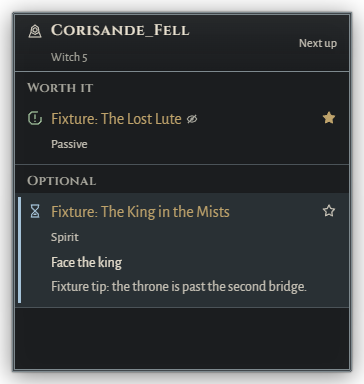
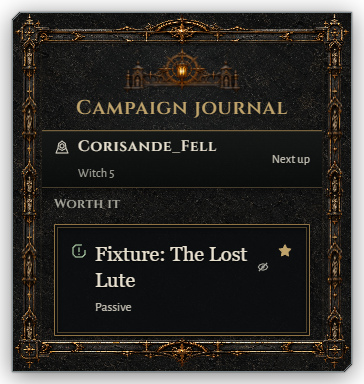
fix(quest-tracker): preserve selected theme across modes

diff --git a/apps/quest-tracker/src/approved-ui.test.ts b/apps/quest-tracker/src/approved-ui.test.ts
@@ -7,23 +7,48 @@ let rendered: Rendered | null = null;
 afterEach(() => { rendered?.destroy(); rendered = null; });
 
 describe('approved material adoption', () => {
-  it('keeps every play frame compact and chooses rich edit surfaces from the existing frame', async () => {
-    for (const mode of ['play', 'edit'] as const) for (const frame of FRAMES) {
+  it('keeps the selected material across every mode and expanded frame', async () => {
+    for (const theme of ['exile', 'claude'] as const) for (const mode of ['play', 'edit'] as const) for (const frame of FRAMES) {
       const view = fixtureView(frame, mode);
-      rendered = await renderApp(fakeBridge(view));
+      view.settings.theme = theme;
+      const bridge = fakeBridge(view);
+      rendered = await renderApp(bridge);
       if (frame === 'collapsed') {
         expect(rendered.root.querySelector('.panel')).toBeNull();
       } else {
         expect(rendered.root.querySelector('.panel')?.getAttribute('data-material')).toBe(
-          mode === 'edit' && frame !== 'panel-next-up' ? 'journal' : 'compact',
+          theme === 'exile' ? 'journal' : 'claude',
         );
+        expect(Boolean(rendered.root.querySelector('.material-art'))).toBe(theme === 'exile');
       }
+      expect(document.documentElement.dataset.theme).toBe(theme);
+      expect(bridge.calls).toEqual([]);
       if (mode === 'play') expect(rendered.root.querySelectorAll(CONTROL_SELECTOR)).toHaveLength(0);
       rendered.destroy(); rendered = null;
     }
   });
 
-  it('keeps text and commands across a compact/rich edit switch without making ornament interactive', async () => {
+  it('changes mode controls without changing the selected theme or requesting a theme patch', async () => {
+    for (const theme of ['exile', 'claude'] as const) {
+      const view = fixtureView('settings', 'edit');
+      view.settings.theme = theme;
+      const bridge = fakeBridge(view);
+      rendered = await renderApp(bridge);
+      (rendered.root.querySelector('.back-to-play') as HTMLButtonElement).click();
+      expect(bridge.calls).toEqual([{ name: 'set_mode', args: { mode: 'play' } }]);
+      bridge.pushView({ ...view, mode: 'play', frame: 'panel-next-up' });
+      expect(document.documentElement.dataset.theme).toBe(theme);
+      expect(rendered.root.querySelector('.panel')?.getAttribute('data-material')).toBe(theme === 'exile' ? 'journal' : 'claude');
+      expect(Boolean(rendered.root.querySelector('.material-art'))).toBe(theme === 'exile');
+      expect(rendered.root.querySelectorAll(CONTROL_SELECTOR)).toHaveLength(0);
+      bridge.pushView(view);
+      expect((rendered.root.querySelector('.theme-choice select') as HTMLSelectElement).value).toBe(theme);
+      expect(bridge.calls.some((call) => call.name === 'update_settings')).toBe(false);
+      rendered.destroy(); rendered = null;
+    }
+  });
+
+  it('keeps text and commands across frame changes without making ornament interactive', async () => {
     const view = fixtureView('panel-campaign', 'edit');
     const long = 'The long invented campaign name '.repeat(8);
     view.character!.name = long;

diff --git a/apps/quest-tracker/src/approved.css b/apps/quest-tracker/src/approved.css
@@ -2,7 +2,7 @@
 :root[data-theme='exile'] .panel-shadow[data-material='journal'] { --frame-inset: var(--material-journal-surround); }
 :root[data-theme='exile'] .panel-content { display: flex; flex: 1; flex-direction: column; min-width: 0; min-height: 0; overflow: hidden; }
 :root[data-theme='exile'] .frame-drag-region { position: absolute; z-index: 2; top: 9px; right: 34px; left: 34px; height: 20px; cursor: move; }
-:root[data-theme='exile'] .journal-plaque { cursor: move; }
+:root[data-theme='exile'] .overlay[data-mode='edit'] .journal-plaque { cursor: move; }
 :root[data-theme='exile'] [data-theme='exile'] .panel[data-material='compact'] {
   --cut: var(--material-compact-chamfer);
   padding: var(--material-compact-trim);
@@ -130,7 +130,7 @@
 :root[data-theme='exile'] .window[data-theme='exile'] .check { padding: 12px; border: 1px solid var(--color-material-stone); box-shadow: inset 0 2px 8px #0006; }
 @media (max-height: 440px) {
   :root[data-theme='exile'] [data-theme='exile'] .journal-plaque { font-size: 20px; line-height: 28px; }
-  :root[data-theme='exile'] .journal-crest { height: 72px; }
+  :root[data-theme='exile'] .journal-crest { height: 48px; }
 }
 @media (max-height: 320px), (max-width: 300px) {
   :root[data-theme='exile'] [data-theme='exile'] .journal-plaque { display: none; }

diff --git a/apps/quest-tracker/src/components/Panel.svelte b/apps/quest-tracker/src/components/Panel.svelte
@@ -38,7 +38,8 @@
   }: { view: View; send: Send; drag?: () => void; resize?: (direction: ResizeDirection) => void } = $props();
 
   const edit = $derived(view.mode === 'edit');
-  const journal = $derived(view.settings.theme !== 'claude' && edit && view.frame !== 'panel-next-up');
+  // Modes change input and controls; only the saved theme chooses the material.
+  const journal = $derived(view.settings.theme !== 'claude');
   const plaque = $derived(view.frame === 'settings' ? 'Overlay settings' : view.frame === 'character-picker' ? 'Characters' : view.frame === 'quest-detail' ? 'Quest details' : 'Campaign journal');
   let panelElement = $state<HTMLDivElement>();
   let wholeScroll = $state(false);

diff --git a/docs/ui-design-system.md b/docs/ui-design-system.md
@@ -1,9 +1,9 @@
-# ExilePact2 — Proposed UI Design System
+# ExilePact2 — Approved UI Design System
 
 **Status: approved visual direction; Quest Tracker UI adoption, 2026-10-31.**
 Quest Tracker is the primary example in a shared family with Waystone Roller
-and Crafting Helper. Rich journal/detail/settings views use a carved campaign
-folio; the gameplay overlay uses restrained weathered steel and dark masonry.
+and Crafting Helper. Quest Tracker uses its selected theme consistently across
+play, edit, Next up, All and Settings; Exile uses the carved stone/gold folio.
 Quest Tracker implements this direction as its default **Exile** theme, with
 the original **Claude** theme selectable in both Settings surfaces. This is not
 a product rename. Waystone/Crafting retain their existing appearance.
@@ -38,17 +38,17 @@ Evidence: ten owner-supplied screenshots received 2026-10-31, identified below b
 | 120029 quest HUD | Right-edge placement, grouped headings, subordinate objectives, short rules, indentation and collapse indicator | Compact contextual task display. Use left-aligned text inside a movable right-positioned panel; one indentation level; explicit status and next action. Do not require reading right-aligned multiline text. |
 | 120759 world map | Engraved cartographic terrain, prominent compass rose, sculpted circular markers, title plaque, act selector and selective luminous emphasis | Use original cartographic/engraved motifs in chapter dividers and subdued marginal artwork; use embossed seals for actual state distinctions. Keep route ordering keyboard-readable and do not invent a world-map capability. |
 
-The references' character comes from material depth, architectural framing, original-looking sculpture, illustrated niches and ceremonial type, not their palette alone. Modernization means clear task hierarchy, restrained motion, sufficient contrast and usable targets inside that visual world. It does not mean erasing the material/ornamental language. Reduce density in the combat overlay while retaining a recognizable carved edge and seal; let journal and ordinary windows carry fuller craft detail.
+The references' character comes from material depth, architectural framing, original-looking sculpture, illustrated niches and ceremonial type, not their palette alone. Modernization means clear task hierarchy, restrained motion, sufficient contrast and usable targets inside that visual world. Keep that material identity across modes; responsive sizing reduces ornament before text without substituting another theme.
 
 ## Design rationale
 
-Approved family: carved campaign folio with a restrained gameplay instrument. This is an original design family, not an approved product rename. Rich journal/detail/settings views use weathered charcoal masonry, cool dull-steel hardware, worn muted-gold inlay, original gothic relief and a ceremonial Roman serif title plate over deeply recessed content. The gameplay variant reduces that construction to a thin weathered steel/dark masonry frame, engraved small-cap header, bone copy, muted-gold quest headings/status shapes and simple etched dividers. No giant crest, statues, lanterns or portraits surround play mode.
+Approved family: carved campaign folio. This is an original design family, not an approved product rename. Every expanded Exile panel uses weathered charcoal masonry, cool dull-steel hardware, worn muted-gold inlay, original gothic relief and a ceremonial Roman serif title plate over deeply recessed content. Play/edit changes input and controls only; Next up, All, detail, Settings and empty states retain the selected material and typography. Claude keeps the prior visual theme, and the collapsed badge keeps its small shape and selected palette.
 
 Material relief, shaped geometry, typography and original art distinguish this from the rejected flat-card recolor. Highlights are narrow and restrained, without glossy bronze, broad specular rims or glowing every edge. Rich views can carry original crest/title hardware, arches, marginal engraving and illustration niches; text wells stay quiet. Task hierarchy remains title → next action → rationale/reward → metadata. No new lore/portrait mapping, health meter, map capability or automatic game action is introduced. All numerical values below are proposed production design metrics, chosen for the accepted direction; none are measured pixel values or sampled colors from AI artwork.
 
 ### Material and ornament system
 
-Define two explicit variants rather than scaling the rich concept down. Gameplay: 2px outer dark-masonry rail plus 1px cool-steel inner rule (3px total), 2px chamfered corners, 1px etched row dividers, shallow 0 1px 0 inset highlight at 18% maximum opacity and 0 2px 6px black contact shadow at 35%. No broad luminous rims, external sculpture or art wells. Texture stays in frame/header; body reading field is uniform. Proposed 0.9 backing follows the actual setting default; 0% remains supported by contract, without promising contrast against every game scene.
+Quest Tracker chooses its expanded-panel material from the saved theme, independently of mode or view. Exile retains its sculpted stone/gold frame, lantern relief and quiet textured wells in play and edit. At short viewports, reduce the crown and padding before content using the same responsive rules in both modes. Ornament stays inside existing native bounds. The 0.9 backing follows the actual setting default; 0% remains supported by contract, without promising contrast against every game scene.
 
 Journal/detail/ordinary windows: 12px carved masonry surround, 3px steel inner rail, 1px muted-gold inlay and 16px reading-well inset. Short title plate 48px high; optional original relief cap up to 56px within the window bounds. Illustration niche 76×112px only at effective widths ≥480px and only where existing data fits; at narrower widths reduce to a 24px decorative seal or omit art. Recessed cards use 8px corners/4px bevel face, 16px padding, a 28px title rail and 1px etched dividers. Contact shadows remain local (0 2px 8px black at 40%); no sprawling glow. Rich art may never increase the native window beyond its current contract or obscure controls.
 
@@ -60,9 +60,10 @@ Material states: hover lightens a control well by one palette step and steel edg
 
 **Provenance:** original AI review concept, generated 2026-10-31, with no game
 pixels or extracted assets; documentation art, **not a shipped runtime asset**.
-The rich journal/settings material direction remains approved. The image's heavy
-gameplay-overlay half is **superseded** by the separately approved lean
-steel/masonry overlay below. Its fictional **Track Quest** button is **not an existing command**.
+The rich material direction remains approved and is used by Exile in both play
+and edit. The earlier lean steel/masonry play substitution is historical; the
+selected theme keeps its rich frame and crest, with responsive ornament sizing.
+Its fictional **Track Quest** button is **not an existing command**.
 The image's Act I / Act II / Act III tabs are illustrative and do not authorize
 chapter navigation; retain the current act heading and existing act expand/collapse.
 Text, fictional quest examples and geometry are illustrative, not measured
@@ -74,16 +75,16 @@ carved charcoal masonry, aged metal inlay/title hardware, gothic relief,
 lantern/astrolabe crest and inset task/reward wells, legible bone text;
 no copied game artwork. This is not a set of reusable sliced runtime assets.
 
-| Original asset | Purpose | Compact / full variant | Provenance and status |
+| Original asset | Purpose | Responsive / proposed variants | Provenance and status |
 |---|---|---|---|
-| Crest / relief cap | Family silhouette and ceremonial heading | Omitted in play / original lantern-astrolabe cap within full frame | Original generated raster crown bundled in Quest Tracker Exile; sibling adoption remains proposed |
-| Masonry / steel frame corners | Structural depth and wear | Thin 3px trim / carved surround and inner rail | Original generated raster surround bundled in Quest Tracker Exile; sibling adoption remains proposed |
+| Crest / relief cap | Family silhouette and ceremonial heading | Same rich frame/crown in play and edit; crown contracts at short viewports | Original generated raster crown bundled in Quest Tracker Exile; sibling adoption remains proposed |
+| Masonry / steel frame corners | Structural depth and wear | Same carved surround and inner rail in both modes; responsive padding | Original generated raster surround bundled in Quest Tracker Exile; sibling adoption remains proposed |
 | Engraved title plate | Display hierarchy | Shallow header / rich title plate | Quest Tracker Exile uses the bundled crown and CSS title plate; sibling adoption remains proposed |
 | Three vignette / emblem studies | Optional chapter identity | Omitted in play, optional 24px narrow-journal seal / aqueduct, lantern-marsh and bell niches | Fictional original AI illustrations, not game/lore data; individual runtime artwork proposed, not produced |
 | Etched divider | Quiet grouping | 1px line / original marginal engraving | Quest Tracker Exile uses CSS dividers; additional illustrated motifs remain proposed |
 | Status shapes | Available/current/done/skipped/locked/unknown distinction | Simple shape plus words / embossed seal with same meaning | Original glyph production proposed, not produced; existing semantics authoritative |
 | Reward / control wells | Task/reward/action hierarchy | Plain labelled content / recessed cells and bevels | Quest Tracker Exile bundles original stone texture with CSS recessed wells; sibling adoption remains proposed |
-| Complete journal concept | Reviewable material direction | Heavy overlay half superseded / rich journal direction retained | Original documentation-only PNG above, copied unchanged from original generation; separate production assets now bundled |
+| Complete journal concept | Reviewable material direction | Illustrative geometry and controls; rich material reference used across Exile modes | Original documentation-only PNG above, copied unchanged from original generation; separate production assets now bundled |
 
 Quest Tracker now bundles three separately generated original production rasters
 and licensed Cinzel; exact prompts, hashes and provenance are in
@@ -127,8 +128,8 @@ Quest Tracker's Exile display face is locally bundled Cinzel600, a Roman serif f
 | Window title | 24 / 32 | Cinzel 600 / 0.035em | Ordinary app title plate |
 | Section / act | 20 / 28 | Cinzel 600 / 0.03em | Rich act/detail strip |
 | Overlay header | 15 / 20 | Cinzel 600 / 0.06em | Short engraved small-cap header |
-| Compact quest heading | 16 / 22 | Cinzel 600 / 0.015em | Muted-gold short title; wraps |
-| Rich quest heading | 20 / 26 | System Georgia / normal | Cream title-case quest title; wraps |
+| Compact proposal heading | 16 / 22 | Cinzel 600 / 0.015em | Optional compact composition; not selected by Quest Tracker mode |
+| Exile quest heading | 20 / 26 | System Georgia / normal | Cream title-case quest title in play/edit; wraps |
 | Body / detail | 16 / 24 | Alegreya Sans 400 / normal | Long guidance and reward explanation |
 | Compact step / label | 14 / 20 | Alegreya Sans 400 / normal | Gameplay action and forms |
 | Button | 14 / 20 | Alegreya Sans 600 / 0.01em | Actions |
@@ -174,16 +175,16 @@ All components inherit semantic tokens; the following is a design inventory, not
 
 ### Quest Tracker feature preservation
 
-Inventory checked against the current guide and UI command/control symbols on 2026-10-31. Stripping down the gameplay composition removes visual bulk, not capabilities. "Journal" below means the existing All/campaign view, not a new native window. Keep current commands, data truth and persistence. No character rename/delete or per-quest Track Quest capability exists in this UI inventory; do not invent them from the concept image.
+Inventory checked against the current guide and UI command/control symbols on 2026-10-31; selected-theme mode consistency corrected on 2026-11-01. "Journal" below means the existing All/campaign view, not a new native window. Keep current commands, data truth and persistence. No character rename/delete or per-quest Track Quest capability exists in this UI inventory; do not invent them from the concept image.
 
 | Existing feature / behavior | Access in the proposed design | Evidence |
 |---|---|---|
-| Play is click-through, unfocused, always-on-top/off-taskbar; edit takes clicks and typing; returning to play closes settings/picker/detail to the quest list | Lean play overlay; existing edit mode for every control | README.md → Overview; src/bridge.ts CommandArgs.set_mode; src/components/Panel.svelte |
+| Play is click-through, unfocused, always-on-top/off-taskbar; edit takes clicks and typing; returning to play closes settings/picker/detail to the quest list | Same selected-theme shell; existing edit mode for every control | README.md → Overview; src/bridge.ts CommandArgs.set_mode; src/components/Panel.svelte |
 | Global mode shortcut, default Ctrl+Alt+Q, user-editable binding and existing refusal/warning behavior | Hotkey remains available even when overlay hidden; edit footer's Back to play; hotkey setting | README.md → Overview / Command reference → Quest Tracker.exe; components/Settings.svelte Edit-mode hotkey; bridge.ts SettingsPatch.hotkey |
-| Drag by non-button header, resize all eight edges/corners, saved position/size, independent content zoom; 320×240 minimum | Minimal drag/title region and edit-only resize affordances; no permanent oversized outer sculpture | README.md → Overview / Command reference; bridge.ts startDrag/startResize and RESIZE_DIRECTIONS |
+| Drag by non-button header, resize all eight edges/corners, saved position/size, independent content zoom; 320×240 minimum | Fixed drag/title regions and edit-only resize affordances; ornament stays inside existing bounds | README.md → Overview / Command reference; bridge.ts startDrag/startResize and RESIZE_DIRECTIONS |
 | Collapse/expand; collapsed worth-it-available count, status warning and live-change indication | Existing ~48×48 badge; expand in edit; play remains passive | components/Header.svelte set_collapsed; components/Collapsed.svelte |
-| Next up and All; Next up groups available/in-progress by worth; All has act groups and expand/collapse | Same edit view switch; compact Next up for gameplay; richer existing All/campaign view when intentionally opened | README.md → Overview; components/Header.svelte set_view_kind; Panel.svelte; ActSection.svelte toggle_act |
-| Six quest statuses, worth-it/optional/not-worth classifications, short rewards, current step, find-it tip, manual-needed and probably-done/inferred marks | Keep essential row content/marks in compact overlay with wrapping/scrolling; fuller card treatment in All/detail | README.md → Overview; components/QuestRow.svelte; ipc.ts QUEST_STATUSES/WORTHS/DETECTIONS |
+| Next up and All; Next up groups available/in-progress by worth; All has act groups and expand/collapse | Same edit view switch; Next up and All retain the same selected-theme material | README.md → Overview; components/Header.svelte set_view_kind; Panel.svelte; ActSection.svelte toggle_act |
+| Six quest statuses, worth-it/optional/not-worth classifications, short rewards, current step, find-it tip, manual-needed and probably-done/inferred marks | Keep essential row content/marks with wrapping/scrolling in the selected material | README.md → Overview; components/QuestRow.svelte; ipc.ts QUEST_STATUSES/WORTHS/DETECTIONS |
 | Quest detail: existing facts/notes, worth reason, all steps and tips, full reward labels, source fetch date | Edit click opens existing in-panel detail; Back returns; decorative art cannot displace these fields | components/QuestDetail.svelte; bridge.ts open_detail |
 | Eligible step tick/untick; inferred steps remain noninteractive; Mark done/Unmark done; Skip/Unskip; Reset with Confirm reset | Existing detail actions in edit, with all reversal/confirmation states; no play-mode buttons | components/QuestDetail.svelte tick_step/quest_action; bridge.ts CommandArgs |
 | Skipped quests continue progressing and unskip restores current progress; manual marks retained | Preserve engine/store behavior and Show skipped access; no deletion disguised as simplification | README.md → Overview; QuestDetail.svelte; Settings.svelte |
@@ -194,8 +195,8 @@ Inventory checked against the current guide and UI command/control symbols on 20
 | Read the screen (off by default), privacy helper, existing OCR/refusal states; Log file override and blank=automatic discovery | Existing overlay Settings and precise status messages; no screenshot-storage or new game-input behavior | README.md → Overview / Reading the screen / Privacy; Settings.svelte; bridge.ts SettingsPatch.screen_reading/log_path |
 | Automatic log/screen detection, per-character progress/persistence, skipped progress and catch-up behavior | Existing Rust behavior unchanged; rendering shows the same view rather than re-deriving progress | README.md → Overview / How detection works; bridge.ts qt:view and qt:row-change |
 | Visibility only over game in play; hidden before a character enters an area; edit always visible; always-on hiding under seven game panels, Escape menu exception | Preserve shell visibility behavior; no decorative protrusions that require a larger overlay hit/paint area; no replacement toggle | README.md → Overview / Hiding under game panels |
-| Row-change highlight, step transition, reduced-motion alternative, one meaningful screen-reader announcement, no catch-up animation | Same row/badge feedback in the lean material vocabulary, without ambient flicker or extra toast stacks | README.md → Overview; src/rowchange.ts; components/QuestRow.svelte / Collapsed.svelte |
-| Warning/error status and empty no-log/waiting/no-character/act-done frames; manual ticks kept | Compact, readable in-panel status/empty state with existing recovery access; do not erase warnings to save pixels | components/Panel.svelte / EmptyState.svelte; ipc.ts FRAMES/StatusLine |
+| Row-change highlight, step transition, reduced-motion alternative, one meaningful screen-reader announcement, no catch-up animation | Same row/badge feedback in the selected material, without ambient flicker or extra toast stacks | README.md → Overview; src/rowchange.ts; components/QuestRow.svelte / Collapsed.svelte |
+| Warning/error status and empty no-log/waiting/no-character/act-done frames; manual ticks kept | Readable selected-theme status/empty state with existing recovery access; do not erase warnings to save pixels | components/Panel.svelte / EmptyState.svelte; ipc.ts FRAMES/StatusLine |
 | Separate ordinary Settings window: Automatically check for updates (off), Check now, latest check state, version and Created by ST4H | Keep this distinct from overlay Settings; richer frame can live here without covering the game | README.md → Overview / Command reference; src/settings/sections.ts / UpdatesSection.svelte |
 | Signed update install/restart, download bytes/known-or-unknown total, Cancel, Try again, unsigned/refused/failure/restart states | All existing ordinary Settings actions/states; never auto-install or put update announcements into play overlay | README.md → Overview / Command reference; src/settings/bridge.ts check_for_updates/install_update/cancel_update; UpdatesSection.svelte |
 | Tray: optional Update available, Check for updates, Settings, Quit Quest Tracker; hidden-overlay exit remains possible | Existing notification-area menu, opening/focusing ordinary Settings as documented | README.md → Overview / Command reference; not moved into gameplay chrome |
@@ -207,7 +208,7 @@ All source paths abbreviated above are beneath apps/quest-tracker/; the guide is
 
 Sizes are content pixels at 1×, excluding native title bars. Plain schematic regions below specify composition, not pixel-perfect screenshot replicas.
 
-1. **Quest Tracker lean gameplay overlay, play/edit, proposed 340×360.** Proposed width range 320–360px, initial 360px height, configurable using existing resize. Place directly beneath the minimap in the native quest-text region, replacing that text in the design. Plain schematic: minimap / 16–24px proposed gap / engraved 36px header / 24px act strip / scrollable quest rows / edit-only footer. Thin weathered steel/dark masonry frame, bone step copy, muted-gold titles/status shapes and etched dividers; no giant crest/statues/portraits. Existing drag/saved placement wins; no new minimap detector. Play remains click-through; every current control is available through edit/detail/All/settings/tray as inventoried; 320×240 remains usable, with ~48×48 collapse and warning/count feedback. Native-HUD suppression is not established by the visual comp or current app; no runtime mechanism is authorized here.
+1. **Quest Tracker selected-theme overlay, play/edit, 340×360 painted default.** Existing resize controls the native window; saved placement wins. Plain schematic: carved title plate / character and view header / act or worth strip / recessed quest rows / edit-only footer. Exile keeps the same stone/gold frame, texture and typography in both modes; short viewports reduce ornament before text. Play remains click-through and control-free; every current action remains available through edit/detail/All/settings/tray. The 320×240 native minimum and ~48×48 collapsed badge remain. No automatic minimap placement or native-HUD suppression capability is introduced.
 2. **Quest Tracker campaign journal/detail, 480×720 study with 320px fallback.** This is an existing campaign/detail view in a resized overlay, not a new native window or new journal capability. The current act heading sits under an engraved title plaque; the existing Next up / All switch remains the only view selector. Stacked architectural quest cards have gilded title rails, recessed task/reward wells and original vignette niches. At 320px the niche becomes a small seal and rewards wrap below the prose, retaining material identity. Completed cards use cooled/desaturated relief plus explicit status and readable text. Selecting a quest in edit replaces the body with its existing reason, steps, reward/giver/zone, source and mark/skip/reset actions; an illustrated detail cap must not consume the action area. No fictional lore/portrait data is added.
 3. **Quest Tracker ordinary Settings, approximately 420×328.** Native title bar; 16px padded Settings heading; Updates section with automatic check switch and privacy helper; status/install lines; progress; Check now and the app-owned install/cancel/retry action; version; divider and Created by ST4H footer. It remains the small ordinary window, not a merge with overlay settings. Overlay settings retain opacity/scale/filter/read-screen/hotkey/log controls from their current contract, arranged as stacked groups.
 4. **Waystone Roller, 800×860.** Header [title | Settings]; compact filter area with visible labels; middle modifier list with each row [modifier words | tier | Want / Ignore / Avoid]; bottom pinned output [full search string, count/250, over-limit breakdown when necessary | Copy]. Search remains local filtering; header/footer do not masquerade as separate card dashboards. At 560×480, filter controls wrap and segments sit beneath row text; ensure the pinned footer does not cover rows.

diff --git a/docs/quest-tracker/design/review-approved-ui.md b/docs/quest-tracker/design/review-approved-ui.md
@@ -1,5 +1,24 @@
 # Approved UI adoption review
 
+## Selected-theme mode consistency — 2026-11-01
+
+The selected theme now chooses the expanded-panel material independently of mode and frame. Exile retains its carved stone/gold frame, textured wells, ornament and serif quest titles in play/edit, Next up/All, Settings/detail/picker and empty states. Claude retains its original presentation. Mode changes interaction and controls only; returning to play still closes edit-only frames as before. Earlier compact-play captures and counts below are historical, not the current mode contract.
+
+The new regression failed before the correction (`expected journal, received compact`) and passed after removing mode/frame from material selection. It checks both themes across every frame/mode, preserved commands and control-free play, and no `update_settings` request during mode/frame changes.
+
+Actual Tauri app-webview MCP observed the following in the disposable test profile after hot reload:
+
+| Selected theme | Mode / frame | Expanded material | Decorative frame | Controls |
+|---|---|---|---|---|
+| Exile | edit / settings | journal | present | 13 |
+| Exile | play / empty-waiting | journal | present | 0 |
+| Claude | edit / settings | claude | absent | 13 |
+| Claude | play / empty-waiting | claude | absent | 0 |
+
+`window.outerWidth/outerHeight` stayed582×703 throughout; opacity0.9, scale1, disabled screen reading, hotkey and synthetic log path were unchanged. The app was restored to Exile edit/Settings after inspection. No live game or installed/user store was changed.
+
+Playwright fixture checks covered Next up and All at320×240 and364×384: the first quest title remained fully inside the well, there were no play controls and no horizontal overflow. At the default size, reducing the crown to48px at short viewports left the first Next up card fully visible (y224–336 inside the well y46–338). This responsive rule is identical in play and edit; it does not choose a different material. The minimum window retains its existing smaller ornament rules. The [current Exile play screenshot](frames/approved/exile-play.png) records the retained frame.
+
 ## First-screen critique — 2026-10-31
 
 Reviewed the rendered 364×384 compact Next up/play and campaign/edit screens before extending the material system. The compact frame has the specified 3px steel/masonry trim and a quiet uniform reading field. Existing status shapes, rewards, steps and tips remain visible. The rich shell has original carved corners, a steel inner rail, gold inlay and lantern-astrolabe relief; it is visibly distinct from the gameplay instrument.
@@ -12,11 +31,11 @@ The user-wide impeccable/taste skills were absent during planning; no plugin was
 
 The owner rejected the initial vector/gray-tile interpretation above as unlike the approved original and reported the lower frame floating over scrolled content. That feedback was correct: the first pass preserved functions but did not reproduce the physical material language, and its decoration sat above a whole-panel scroll area.
 
-Reopened the original concept and compared the new representative journal beside it before expanding checks. The final screen now uses original generated black carved masonry/niche rails, worn warm-gold inlay, a dimensional amber lantern/astrolabe crown, subdued physical stone, rectangular recessed wells with double fine gold lines, cream Georgia title-case quest names and readable Sans prose. Header/act/control bands now share dark recessed stone/blackened metal and selected warm-gold treatment; the old flat gray bands and rounded gray cards are gone. The illustrative act tabs, fictional Track button and quest art mapping remain absent. Quiet play stays a restrained 3px instrument.
+Reopened the original concept and compared the new representative journal beside it before expanding checks. The screen uses original generated black carved masonry/niche rails, worn warm-gold inlay, a dimensional amber lantern/astrolabe crown, subdued physical stone, rectangular recessed wells with double fine gold lines, cream Georgia title-case quest names and readable Sans prose. Header/act/control bands share dark recessed stone/blackened metal and selected warm-gold treatment; the old flat gray bands and rounded gray cards are gone. The illustrative act tabs, fictional Track button and quest art mapping remain absent. The later mode-consistency correction above retains these Exile materials in play as well.
 
 The generated frame uses nine-slicing with vertically rounded side segments, preserving sculpture proportions. The outer frame is fixed; a separately inset well clips its scrolling contents. The crown belongs to the title plate inside that well. A fixed top-rail drag region remains available after Settings scrolls down; the rich title plate also uses the existing drag bridge. Art takes no input; controls and all resize edges retain their actions. Exact provenance and hashes are in [harvest](harvest.md#original-production-material-assets).
 
-Current app-only screenshots: [rich journal](frames/approved/exile-journal.png), [quiet play](frames/approved/exile-play.png), [ordinary Settings](frames/approved/exile-settings.png), and [minimum overlay Settings scrolled to the end](frames/approved/exile-settings-scroll-end.png). Claude screenshots retain the unchanged baseline cascade. These are rendered live controls, not the concept PNG used as a runtime mockup.
+Current app-only screenshots: [rich journal](frames/approved/exile-journal.png), [Exile play](frames/approved/exile-play.png), [ordinary Settings](frames/approved/exile-settings.png), and [minimum overlay Settings scrolled to the end](frames/approved/exile-settings-scroll-end.png). Claude screenshots retain the unchanged baseline cascade. These are rendered live controls, not the concept PNG used as a runtime mockup.
 
 ### Frame and scroll checks
 
@@ -27,7 +46,7 @@ Each case below was measured at scroll start, middle and end using actual app-we
 | Native overlay Settings, app-webview, viewport511×571 | 12,12,487,547 | 42,46,427,479 | Inner body0/181/362; footer reachable; fixed drag region y21 throughout |
 | Same actual native window, text metrics doubled | 12,12,487,547 | 42,46,427,479 | Inner well0/416/831; footer reachable; drag region y21 unchanged; font overrides restored afterward |
 | Browser overlay minimum320×240 | 12,12,296,216 | 24,40,272,174 | Inner well0/277/554; footer bottom inside the well at end |
-| Browser overlay default364×384 | 12,12,340,360 | 42,46,280,292 | Inner well0/272/544; footer reachable |
+| Browser overlay default364×384, after mode-consistency correction | 12,12,340,360 | 42,46,280,292 | Inner body0/260/520; footer fixed at y298–338 and reachable at every position |
 | Browser ordinary Settings420×328 | 0,0,420,328 | 18,20,384,288 | Inner well0/91/182; credit reachable |
 | Browser ordinary Settings420×280, normal/doubled text | 0,0,420,280 | 18,20,384,240 | Inner well0/115/230 and0/313/626; credit reachable. Ordinary plaque rails remain20px/18px; the small-overlay media rule excludes this window. |
 

diff --git a/docs/quest-tracker/design/component-spec.md b/docs/quest-tracker/design/component-spec.md
@@ -4,7 +4,7 @@
 
 **Exile is the default theme**; **Claude** preserves the original specifications below. Both overlay Settings and the ordinary Settings window offer Theme → Exile / Claude. The preference is saved by Rust, sent to both windows and applied without changing mode, open frame, progress, opacity, zoom or saved geometry.
 
-Exile uses locally bundled Cinzel for short engraved titles, system Georgia/serif for cream title-case quest names, Alegreya Sans prose, warm gold controls and original raster masonry/niche/lantern-astrolabe relief. Every play frame and edit Next up use 3px restrained trim and a uniform reading field; edit All/detail/characters/settings use a physical carved surround, gold inlay and rectangular double-lined recessed wells. Header, act and selected controls use the same blackened-metal/warm-inlay material. Ordinary Settings uses smaller rails. Decorative art is hidden from assistive technology and takes no input. All controls/actions and 22 feature groups remain: [preservation map](approved-ui-preservation.md).
+Exile uses locally bundled Cinzel for short engraved titles, system Georgia/serif for cream title-case quest names, Alegreya Sans prose, warm gold controls and original raster masonry/niche/lantern-astrolabe relief. Every expanded Exile frame retains the same physical carved surround, gold inlay and rectangular double-lined recessed wells in play and edit, including Next up and All. Mode changes controls/input, never the selected theme or its material. Header, act and selected controls use the same blackened-metal/warm-inlay material. Ordinary Settings uses smaller rails in the same theme family; the collapsed badge keeps its small shape and selected palette. Decorative art is hidden from assistive technology and takes no input. All controls/actions and 22 feature groups remain: [preservation map](approved-ui-preservation.md).
 
 The Exile outer frame stays fixed. Its content scrolls in a separately inset, clipped well; the crown scrolls with its title plate rather than floating above content. A fixed noninteractive top-rail grab area and the rich title plate use the existing header-drag bridge in edit mode. The rail remains reachable after scrolling Settings to the end. Buttons, selects, fields, right clicks and passive play start no drag; all eight resize edges remain separate. Claude retains its original header gesture and cascade.
 

diff --git a/docs/quest-tracker/design/approved-ui-preservation.md b/docs/quest-tracker/design/approved-ui-preservation.md
@@ -4,7 +4,7 @@ The order matches the 22 existing feature groups in [the design system](../../ui
 
 | # | Existing feature | Implementation | Verification |
 |---|---|---|---|
-| 1 | Passive play / interactive edit; close edit frames on return | Existing shell modes and shared App/Panel behavior | app.test.ts; finish-frames.test.ts; Rust shell |
+| 1 | Passive play / interactive edit; close edit frames on return | Existing shell modes and shared App/Panel behavior; selected material remains unchanged across modes | app.test.ts; finish-frames.test.ts; approved-ui.test.ts; Rust shell |
 | 2 | Global shortcut and binding/refusal states | Existing Settings hotkey and edit footer | live2.test.ts; Rust shell |
 | 3 | Header drag, eight resize directions, saved bounds, independent zoom | Existing bridge/native geometry; new-store364×384, minimum320×240 | resize.test.ts; Rust shell saved-size/theme tests |
 | 4 | Collapse/expand, count, warning and change badge | Existing Collapsed with selected theme tokens | app.test.ts; live2.test.ts; row-change.test.ts |
@@ -27,4 +27,4 @@ The order matches the 22 existing feature groups in [the design system](../../ui
 | 21 | Tray entries and hidden-overlay quit | Existing tray/action IDs unchanged | Rust updates/shell |
 | 22 | Keyboard/focus/shapes/announcements and runtime/developer interfaces | Shared controls and existing commands; update_settings.theme added | ipc.test.ts; approved-ui.test.ts; rendered review; Rust shell |
 
-Theme checks cover default/invalid stored values, atomic refusal of invalid patches, both windows receiving the choice, no updater request, saved preference reload, unchanged geometry, local licensed assets and separate JSON/CSS value parity. See [rendered review](review-approved-ui.md). No game integration mechanism is introduced by this restyle.
+Theme checks cover default/invalid stored values, atomic refusal of invalid patches, both windows receiving the choice, no updater request, saved preference reload, unchanged geometry, local licensed assets and separate JSON/CSS value parity. Every expanded frame retains its selected material across play/edit; mode changes request no theme patch and play remains control-free. See [rendered review](review-approved-ui.md). No game integration mechanism is introduced by this restyle.

diff --git a/docs/quest-tracker/README.md b/docs/quest-tracker/README.md
@@ -24,14 +24,15 @@ works" › "Hiding under game panels"); that is always on since 0.1.1.
 
 What it is:
 
-- **Two visual themes, the same tracker.** Exile is the default: restrained
-  steel/masonry in play, carved journal/detail/settings surfaces in edit,
+- **Two visual themes, the same tracker.** Exile is the default: carved
+  stone/gold surfaces throughout play, edit, Next up, All and Settings,
   original raster stone/gold relief, Cinzel plaques, cream serif quest names
   and warm gold controls. Select
   **Claude** to restore the previous visual theme. Use *Theme* in overlay
   Settings (edit mode), or *Appearance → Theme* in the tray's ordinary Settings
   window. The choice is saved and updates both windows; it changes no progress,
-  mode, open frame, opacity, scale or saved window bounds. See the
+  mode, open frame, opacity, scale or saved window bounds. Switching modes
+  changes interaction and controls, never the selected theme or its material. See the
   [22-feature preservation map](design/approved-ui-preservation.md) and
   [rendered review](design/review-approved-ui.md). In edit/settings mode, drag
   the header or rich title plate to move it; a fixed top-rail grab area stays
@@ -2650,8 +2651,10 @@ Revisit this feature when:
 
 ### Unreleased
 
-- Default Exile UI: restrained gameplay trim, richer journal/detail/settings,
+- Default Exile UI: consistent carved stone/gold across play and edit surfaces,
   original decorative relief, local Cinzel titles and palette-matched controls.
+- Switching play/edit or opening Settings keeps the selected Exile/Claude
+  theme. Mode changes controls and click-through behavior, not materials.
 - Theme in overlay Settings and ordinary Settings Appearance selects Exile or
   the previous Claude UI, persists, and updates both windows without changing
   quest behavior, other preferences or saved bounds. All22 existing feature

diff --git a/docs/quest-tracker/ui-design-brief.md b/docs/quest-tracker/ui-design-brief.md
@@ -14,6 +14,10 @@ The [approved shared UI design system](../ui-design-system.md) is adopted in
 Quest Tracker as the default **Exile** theme. **Claude** in either Settings
 surface restores the prior visual theme. Existing behavior and fixed icon/frame
 IDs below remain authoritative; theme preference is the explicit settings addition.
+The selected theme alone chooses expanded-panel materials and typography:
+Exile keeps the same carved stone/gold frame in play, edit, Next up, All and
+Settings. Modes change controls/input only; they do not substitute a compact
+theme. The collapsed badge retains its small shape and selected palette.
 
 Both settings views receive Rust's saved `theme` (`exile` or `claude`) and send
 the existing `update_settings` command. Missing/invalid stored values default to

diff --git a/README.md b/README.md
@@ -3,9 +3,9 @@
 Tools and mods for Path of Exile 2, three apps: the quest tracker, the
 waystone roller and the crafting helper.
 
-The [proposed shared UI design system](docs/ui-design-system.md) describes a
-future visual direction; current app behavior and export contracts remain
-authoritative.
+The [shared UI design system](docs/ui-design-system.md) is the approved visual
+direction, implemented in Quest Tracker as its default Exile theme; current
+app behavior and export contracts remain authoritative.
 
 ## Quest tracker
 
